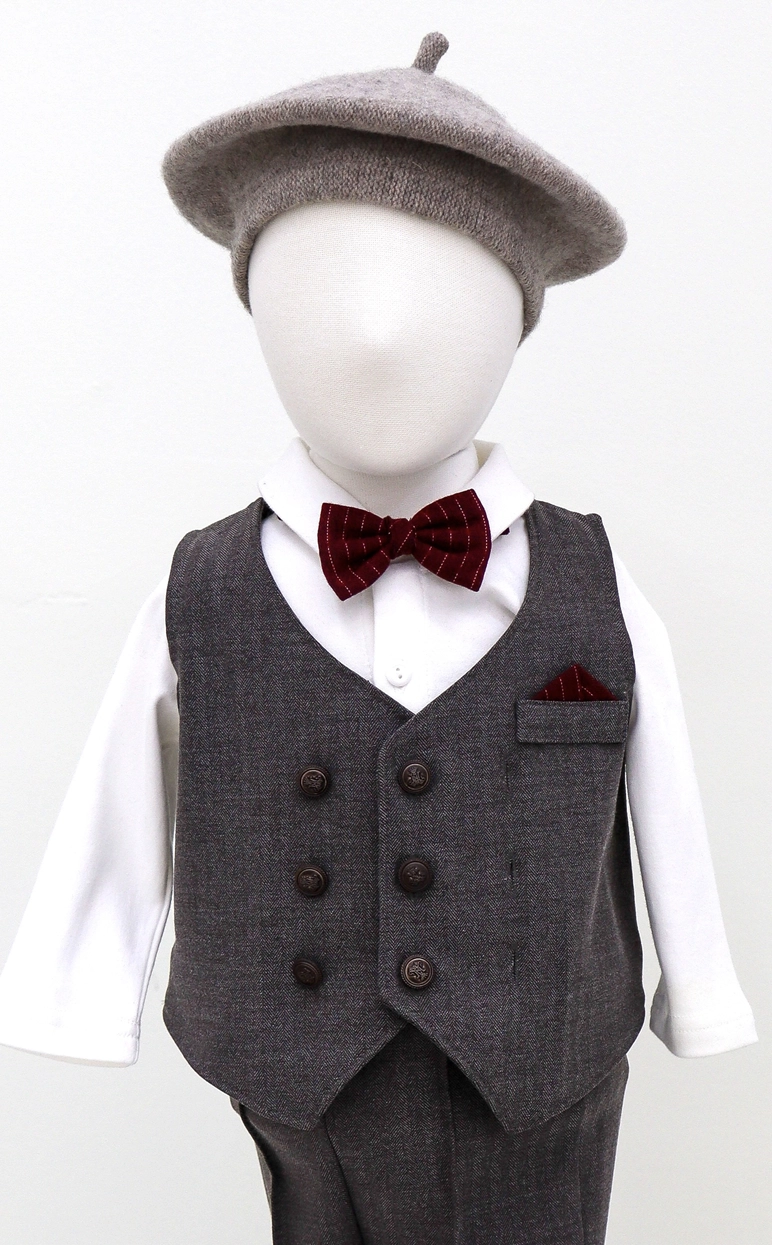
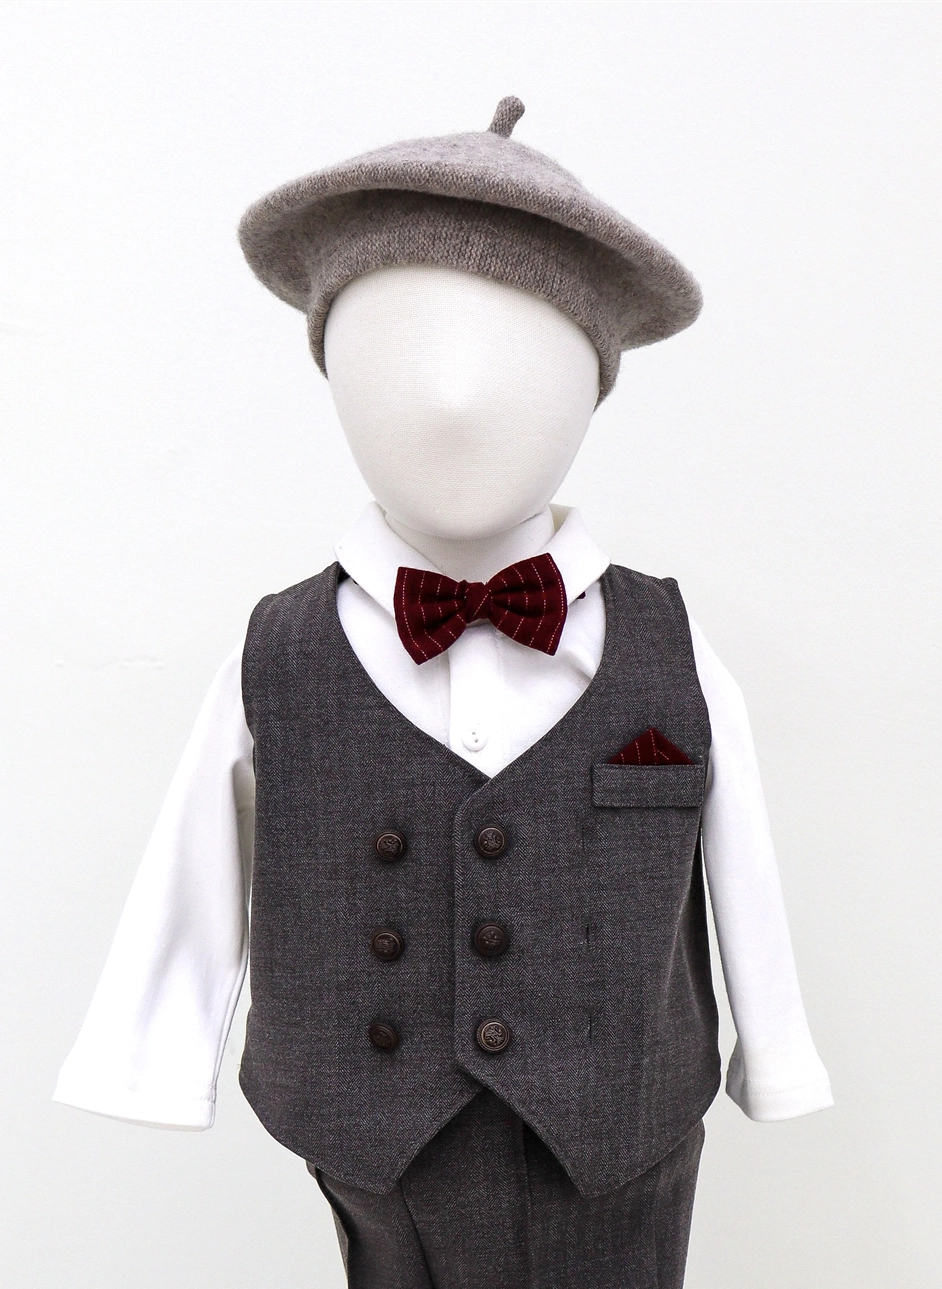
1
1

diff --git a/index.html b/index.html
@@ -19,7 +19,7 @@
       --light-muted: #c4b8b2;
     }
     *, *::before, *::after { box-sizing: border-box; margin: 0; padding: 0; }
-    html { scroll-behavior: smooth; }
+    html { scroll-behavior: smooth; font-size: 17px; }
     body {
       background: var(--warm-white);
       color: var(--charcoal);
@@ -225,11 +225,11 @@
       color: var(--charcoal); margin-bottom: 1.5rem;
     }
     .about-heading em { font-style: italic; color: var(--deep-rose); }
-    .about-body { font-family: 'Noto Serif KR', serif; font-size: 0.95rem; line-height: 2.1; color: var(--muted); }
+    .about-body { font-family: 'Noto Serif KR', serif; font-size: 0.97rem; line-height: 2.2; color: var(--charcoal); opacity: 0.85; }
     .about-stats { display: grid; grid-template-columns: 1fr 1fr; gap: 2rem; }
     .stat-item { border-top: 1px solid var(--blush); padding-top: 1.5rem; }
     .stat-number { font-family: 'Cormorant Garamond', serif; font-size: 2.8rem; font-weight: 300; color: var(--deep-rose); line-height: 1; margin-bottom: 0.5rem; }
-    .stat-label { font-size: 0.78rem; letter-spacing: 0.08em; color: var(--muted); }
+    .stat-label { font-size: 0.82rem; letter-spacing: 0.08em; color: var(--charcoal); opacity: 0.75; }
 
     /* ── CONCEPT PHOTOZONE ── */
     .concept-section {
@@ -283,11 +283,12 @@
     .concept-main-img {
       overflow: hidden;
       border-radius: 2px;
+      background: var(--cream);
     }
     .concept-main-img img {
       width: 100%;
       aspect-ratio: 3/4;
-      object-fit: cover;
+      object-fit: contain;
       display: block;
       transition: transform 0.5s;
     }
@@ -295,18 +296,40 @@
     .concept-babies {
       overflow: hidden;
       border-radius: 2px;
+      background: var(--cream);
     }
     .concept-babies img {
       width: 100%;
       aspect-ratio: 3/4;
-      object-fit: cover;
-      object-position: center top;
+      object-fit: contain;
       display: block;
       transition: transform 0.5s;
     }
     .concept-babies:hover img { transform: scale(1.02); }
 
-    .concept-all {
+    .fullview-grid {
+      display: grid;
+      grid-template-columns: 1fr 1fr;
+      gap: 16px;
+    }
+    .fullview-item {
+      overflow: hidden;
+      border-radius: 2px;
+      background: var(--cream);
+    }
+    .fullview-item img {
+      width: 100%;
+      aspect-ratio: 4/3;
+      object-fit: contain;
+      display: block;
+      transition: transform 0.5s;
+    }
+    .fullview-item:hover img { transform: scale(1.02); }
+    @media (max-width: 768px) {
+      .fullview-grid { grid-template-columns: 1fr; }
+    }
+
+    /* ── CONCEPT ALL ── */
       margin-top: 3rem;
       text-align: center;
     }
@@ -392,11 +415,11 @@
     .pricing-sub { font-size: 0.85rem; letter-spacing: 0.05em; color: var(--muted); }
     .base-pricing { display: grid; grid-template-columns: 1fr 1fr; gap: 1.5px; background: var(--blush); margin-bottom: 2rem; }
     .base-card { background: var(--warm-white); padding: 3rem; }
-    .base-card-tag { font-size: 0.65rem; letter-spacing: 0.3em; color: var(--rose); text-transform: uppercase; margin-bottom: 1.5rem; }
-    .base-card-type { font-family: 'Cormorant Garamond', serif; font-size: 2rem; font-weight: 300; color: var(--charcoal); margin-bottom: 0.5rem; }
-    .base-card-price { font-family: 'Cormorant Garamond', serif; font-size: 3rem; font-weight: 300; color: var(--deep-rose); line-height: 1; margin-bottom: 0.4rem; }
-    .base-card-price span { font-family: 'Noto Sans KR', sans-serif; font-size: 0.85rem; color: var(--muted); }
-    .base-card-note { font-size: 0.82rem; color: var(--muted); line-height: 1.8; margin-top: 1.2rem; padding-top: 1.2rem; border-top: 1px solid var(--blush); }
+    .base-card-tag { font-size: 0.68rem; letter-spacing: 0.3em; color: var(--rose); text-transform: uppercase; margin-bottom: 1.5rem; font-weight: 600; }
+    .base-card-type { font-family: 'Cormorant Garamond', serif; font-size: 2.2rem; font-weight: 400; color: var(--charcoal); margin-bottom: 0.5rem; }
+    .base-card-price { font-family: 'Cormorant Garamond', serif; font-size: 3.2rem; font-weight: 400; color: var(--deep-rose); line-height: 1; margin-bottom: 0.4rem; }
+    .base-card-price span { font-family: 'Noto Sans KR', sans-serif; font-size: 0.9rem; color: var(--charcoal); font-weight: 500; }
+    .base-card-note { font-size: 0.88rem; color: var(--charcoal); line-height: 2; margin-top: 1.2rem; padding-top: 1.2rem; border-top: 1px solid var(--blush); font-weight: 400; }
     .options-title { font-family: 'Cormorant Garamond', serif; font-size: 1.8rem; font-weight: 300; color: var(--charcoal); margin-bottom: 1.2rem; margin-top: 3.5rem; }
     .options-grid { display: grid; grid-template-columns: repeat(4, 1fr); gap: 1px; background: var(--blush); }
     .option-card { background: var(--warm-white); padding: 2rem 1.8rem; transition: background 0.3s; }
@@ -417,8 +440,8 @@
     .option-card:hover .option-img img { transform: scale(1.05); }
 
     .option-icon { font-size: 1.5rem; margin-bottom: 1rem; }
-    .option-name { font-family: 'Noto Serif KR', serif; font-size: 0.92rem; font-weight: 400; color: var(--charcoal); margin-bottom: 0.5rem; line-height: 1.6; }
-    .option-desc { font-size: 0.78rem; color: var(--muted); line-height: 1.7; margin-bottom: 1rem; }
+    .option-name { font-family: 'Noto Serif KR', serif; font-size: 1rem; font-weight: 500; color: var(--charcoal); margin-bottom: 0.5rem; line-height: 1.6; }
+    .option-desc { font-size: 0.85rem; color: var(--charcoal); line-height: 1.7; margin-bottom: 1rem; opacity: 0.75; }
     .option-price { font-family: 'Cormorant Garamond', serif; font-size: 1.6rem; color: var(--deep-rose); }
     .option-spec {
       font-size: 0.72rem;
@@ -790,12 +813,16 @@
       <p class="section-tag">About Studio</p>
       <h2 class="about-heading">단 한 번뿐인<br><em>첫 생일</em>의<br>기억</h2>
       <p class="about-body">
-        베베로그는 아이의 백일과 돌을 위한<br>
-        화성 프리미엄 셀프스튜디오입니다.<br><br>
-        드레스샵 수준의 의상을 직접 골라 입히고,<br>
-        스튜디오 공간 전체를 우리 가족만 단독으로 사용해<br>
-        눈치 없이 마음껏 찍을 수 있어요.<br><br>
-        <span style="font-size:0.85rem;color:var(--light-muted);">※ 셀프 촬영 스튜디오로, 별도 스태프 배치는 없습니다.</span>
+        <strong style="font-size:1.05rem;color:var(--charcoal);font-weight:500;">준비는 최소로, 만족은 최대로.</strong><br><br>
+        상차림 세팅 · 5가지 포토존 · 드레스 / 수트 / 한복 대여까지<br>
+        모든 게 갖춰진 단독 대관 베이비 셀프스튜디오입니다.<br>
+        여러분은 아이와의 시간만 즐기시면 됩니다 :)<br><br>
+        <span style="font-size:0.88rem;color:var(--charcoal);line-height:2.2;display:block;">
+          ※ 백일 · 돌 · 두돌 전문&nbsp;&nbsp;
+          ※ 단독 대관&nbsp;&nbsp;
+          ※ 의상 대여&nbsp;&nbsp;
+          ※ 수유실 완비
+        </span>
       </p>
     </div>
     <div class="about-stats reveal">
@@ -823,6 +850,7 @@
       <button class="concept-tab-btn" onclick="switchConcept(2, this)">컨셉 3</button>
       <button class="concept-tab-btn" onclick="switchConcept(3, this)">컨셉 4</button>
       <button class="concept-tab-btn" onclick="switchConcept(4, this)">컨셉 5</button>
+      <button class="concept-tab-btn" onclick="switchConcept(5, this)">스튜디오 전경</button>
     </div>
 
     <!-- 컨셉 패널 -->
@@ -880,6 +908,15 @@
           <div class="concept-babies">
             <img src="concept_baby_5.webp" alt="컨셉5 촬영 예시" loading="lazy">
           </div>
+        </div>
+      </div>
+      <!-- 스튜디오 전경 -->
+      <div class="concept-panel" id="concept-5">
+        <div class="fullview-grid">
+          <div class="fullview-item"><img src="Full_view_1.webp" alt="스튜디오 전경 1" loading="lazy"></div>
+          <div class="fullview-item"><img src="Full_view_2.webp" alt="스튜디오 전경 2" loading="lazy"></div>
+          <div class="fullview-item"><img src="Full_view_3.webp" alt="스튜디오 전경 3" loading="lazy"></div>
+          <div class="fullview-item"><img src="Full_view_4.webp" alt="스튜디오 전경 4" loading="lazy"></div>
         </div>
       </div>
     </div>
